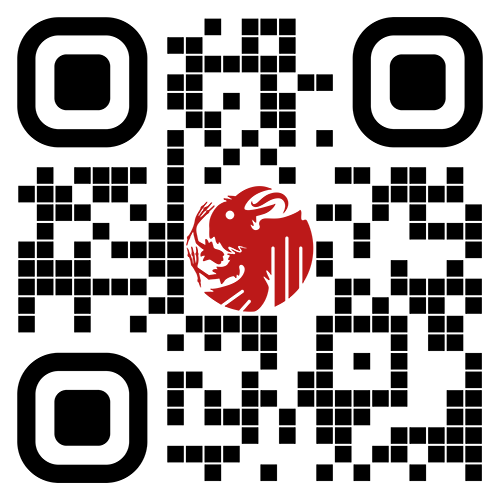
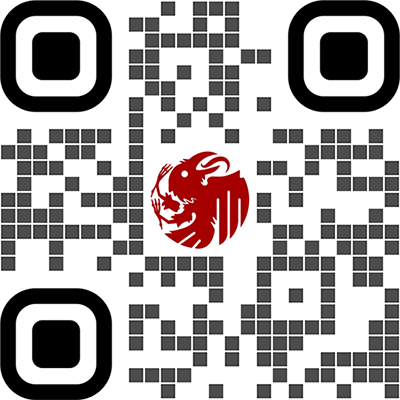
update qr code

diff --git a/assets/css/share_style.css b/assets/css/share_style.css
@@ -33,10 +33,26 @@ button{
   padding: 3px 3px;
   margin-bottom: -30px;
 }
-.popup, .popup-qrcode{
+.popup{
   background: #fff;
   color: #000;
   padding: 25px;
+  border-radius: 15px;
+  top: -150%;
+  max-width: 380px;
+  width: 100%;
+  opacity: 0;
+  pointer-events: none;
+  box-shadow: 0px 10px 15px rgba(0,0,0,0.1);
+  transform: translate(-50%, -50%) scale(1.2);
+  transition: top 0s 0.2s ease-in-out,
+              opacity 0.2s 0s ease-in-out,
+              transform 0.2s 0s ease-in-out;
+}
+.popup-qrcode{
+  background: #fff;
+  color: #000;
+  padding: 25px 25px 0px 25px;
   border-radius: 15px;
   top: -150%;
   max-width: 380px;
@@ -90,10 +106,10 @@ header .close{
 header .close:hover{
   background: #ebedf9;
 }
-.popup .content, .popup-qrcode .content{
+.popup .content{
   margin: 20px 0;
 }
-.popup .icons, .popup-qrcode .icons{
+.popup .icons{
   margin: 15px 0 20px 0;
 }
 .content p{
@@ -206,4 +222,11 @@ div .icons a {
 }
 .field button:hover{
   background: #333333;
+}
+
+.popup-qrcode .content-qrcode{
+  margin: 20px 0;
+}
+.content-qrcode p{
+  font-size: 16px;
 }

diff --git a/index.html b/index.html
@@ -127,12 +127,12 @@
 
     <div class="popup-qrcode">
       <header>
-        <span>Scan the QR Code</span>
+        <span>Scan this QR Code</span>
         <div class="close"><i class="uil uil-times"></i></div>
       </header>
-      <div class="content">
+      <div class="content-qrcode">
         <img
-          class="mb-8 d-block mx-auto"
+          class="mb-8 mx-auto"
           src="assets/qr-code.png"
           alt="sigilogy QR Code"
         />
